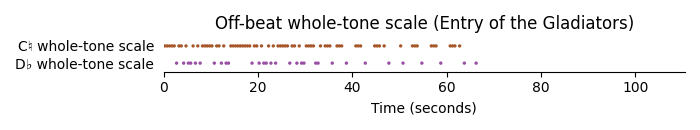
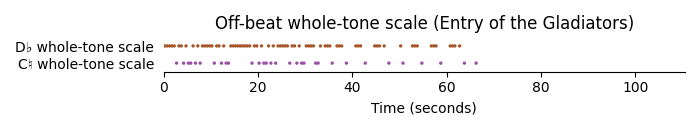
Updates

Changed region(s): [[0.0, 0.3077, 0.24, 0.4], [0.0, 0.4615, 0.24, 0.5538]]

diff --git a/res/bumblebee/fit_models.py b/res/bumblebee/fit_models.py
@@ -122,7 +122,7 @@ off_beat_notes_scale = np.asarray(off_beat_notes) % 2
 plt.figure(figsize=(7,1.3))
 plt.scatter(on_beat_notes_times/note_timings[-1]*f.length, on_beat_notes_scale, c=[whole_tone_colours[1] if v else whole_tone_colours[0] for v in on_beat_notes_scale], s=2)
 plt.gca().set_yticks([0, 1])
-plt.gca().set_yticklabels(["D♭ whole-tone scale", "C♮ whole-tone scale"])
+plt.gca().set_yticklabels(["C♮ whole-tone scale", "D♭ whole-tone scale"])
 plt.xlabel("Time (seconds)")
 plt.gca().set_ylim(-.5, 1.5)
 plt.gca().set_xlim(0, 110.5)
@@ -136,7 +136,7 @@ plt.show()
 plt.figure(figsize=(7,1.3))
 plt.scatter(off_beat_notes_times/note_timings[-1]*f.length, off_beat_notes_scale, c=[whole_tone_colours[1] if v else whole_tone_colours[0] for v in off_beat_notes_scale], s=2)
 plt.gca().set_yticks([0, 1])
-plt.gca().set_yticklabels(["D♭ whole-tone scale", "C♮ whole-tone scale"])
+plt.gca().set_yticklabels(["C♮ whole-tone scale", "D♭ whole-tone scale"])
 plt.xlabel("Time (seconds)")
 plt.gca().set_ylim(-.5, 1.5)
 plt.gca().set_xlim(0, 110.5)

diff --git a/_posts/2022-06-04-flight-of-the-bumblebee.md b/_posts/2022-06-04-flight-of-the-bumblebee.md
@@ -1,5 +1,5 @@
 ---
-title: Does Flight of the Bumblebee resemble bumblebee flight?
+title: Does "Flight of the Bumblebee" resemble bumblebee flight?
 author: Max Shinn
 layout: post
 datadir: bumblebee
@@ -8,21 +8,24 @@ tags: math opera stochastic-processes modeling stats
 ---
 
 [Flight of the Bumblebee](https://www.youtube.com/watch?v=X14kC-sEH0I) is one of
-the rare pieces of classical music which has cemented its place in pop culture.
-However, it is unclear whether its composer, Nikolai Rimsky-Korsakov, actually
-took inspiration from bumblebee flight patterns.  While the true answer is
-probably lost to history, a careful analysis of the music offers some insight
-into its composition.  Using evidence from ethology, mathematics, and music
-theory, I argue that *yes, it is very likely*[^a] that Rimsky-Korsakov observed
-and incorporated actual bumblebee flight patterns into his music.
+the rare pieces of classical music which, through its association with bees, has
+cemented its place in pop culture. However, it is unclear whether its composer,
+Nikolai Rimsky-Korsakov, actually took inspiration from bumblebee flight
+patterns. I address this question using new tools from ethology, mathematics,
+and music theory.  Surprisingly, the melody line of ``Flight of the Bumblebee''
+mimics a distinctive property of bumblebee flight, a property which was not
+formally discovered until decades after Rimsky-Korsakov's death.  Therefore,
+*yes, it is very likely*[^a] that Rimsky-Korsakov observed and incorporated
+actual bumblebee flight patterns into his music.
 
 In what follows, I assume the reader has a knowledge of high school level
-mathematics and basic music theory (chord changes, intervals, chromatic scale,
-etc.).
+mathematics and basic music theory (chord changes, intervals, scales, etc.).
+[This post is based on my recent preprint, available on
+SocArXiv.](https://osf.io/preprints/socarxiv/4v6nu/)
 
 ## Historical background
 
-The piece we now call "Flight of the Bumblebee" is actually an extract from one
+The piece we now call "Flight of the Bumblebee" actually comes from one
 of Rimsky-Korsakov's operas, "The Tale of Tsar Saltan".  The opera is based on a
 story by Alexander Pushkin, which is in turn based on several folk tales.  The
 hero, Prince Gvidon, is cast on a remote island by his jealous aunts.  While
@@ -297,7 +300,7 @@ deliberate use of whole-tone scale for the on-beats:
 
 Or for off-beats:
 
-{% include image.html name="whole-tone-melody-gladiators.png" caption="The whole-tone scale associated with each off-beat in Entry of the Gladiators." %}
+{% include image.html name="whole-tone-melody-gladiators-offbeats.png" caption="The whole-tone scale associated with each off-beat in Entry of the Gladiators." %}
 
 This means that the whole-tone scale seems to have been deliberately used by
 Rimsky-Korsakov, but not by Fučík, in constructing the melody line.
